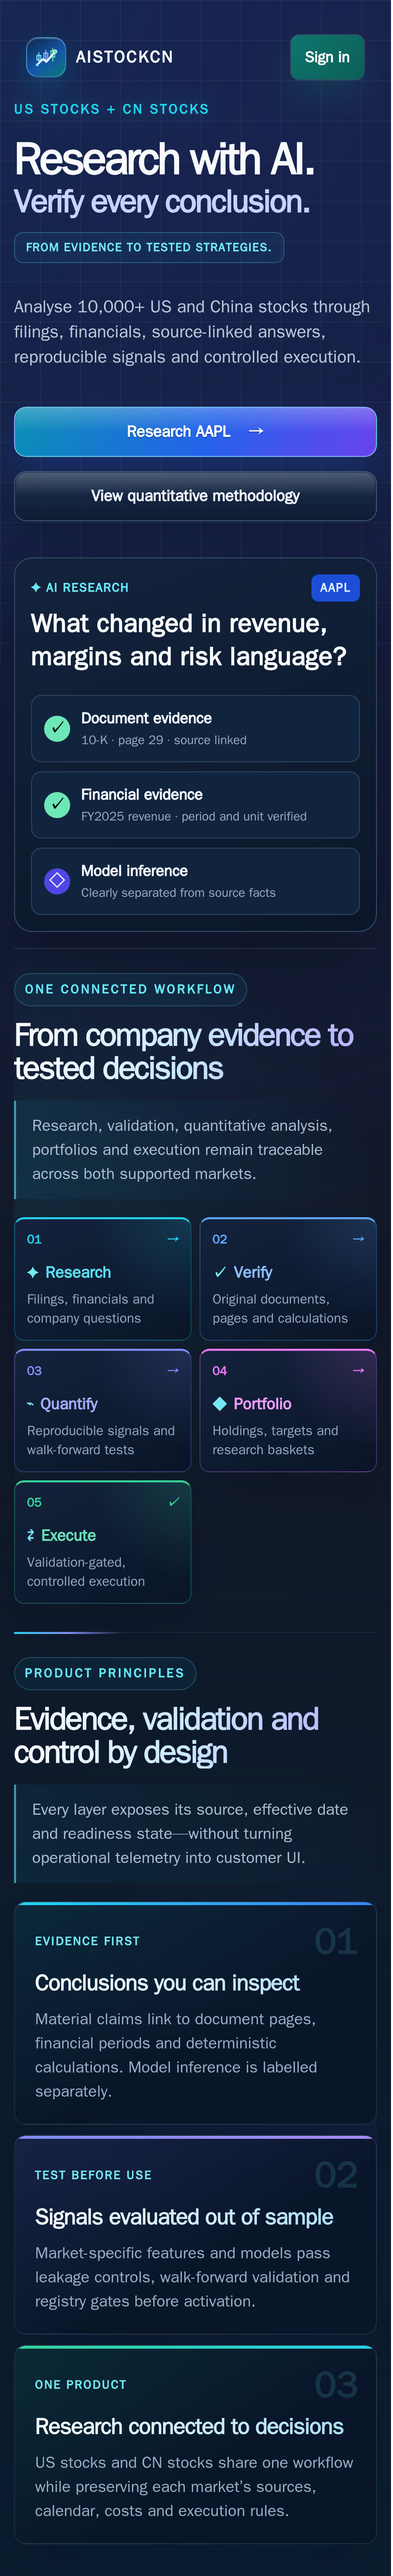
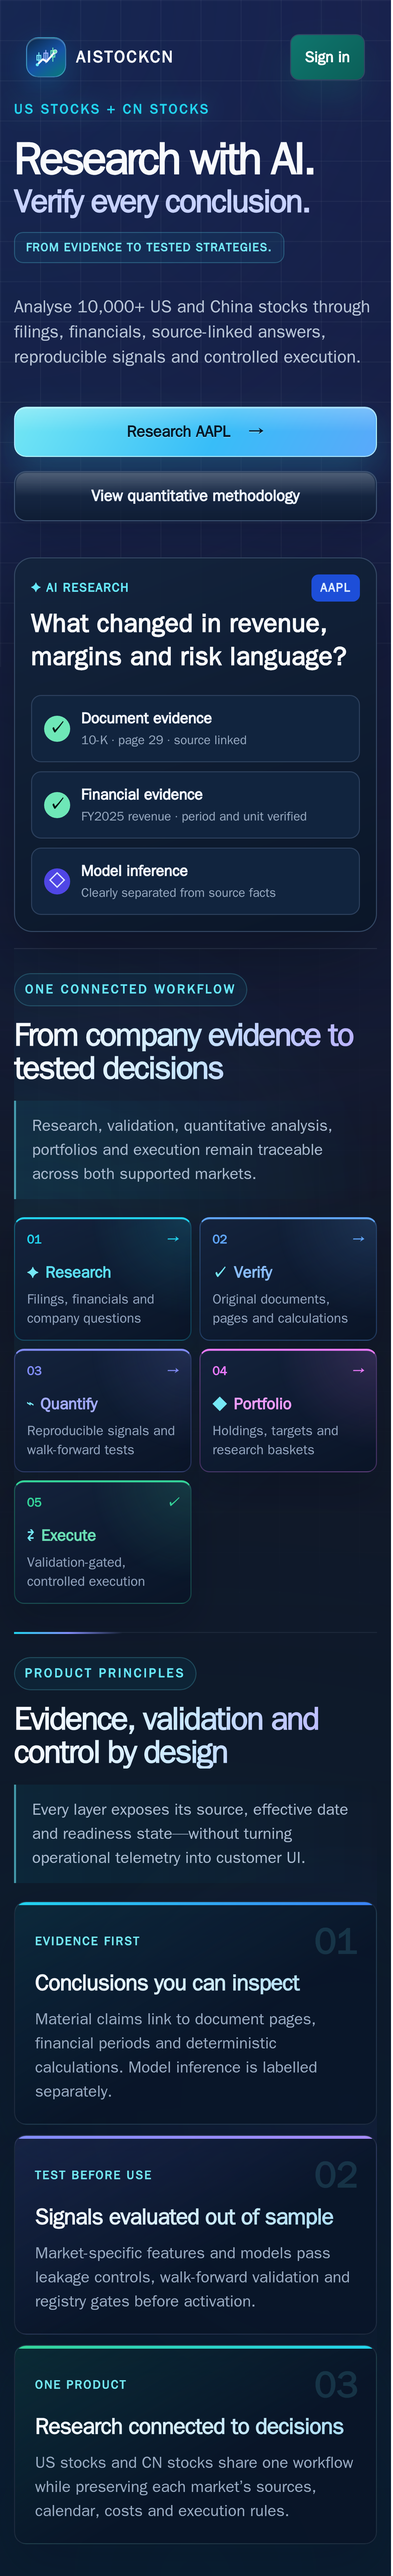
style: align hero CTA with brand blue

Changed region(s): [[0.0306, 0.1559, 0.9796, 0.1871]]

diff --git a/apps/web/app/globals.css b/apps/web/app/globals.css
@@ -4810,10 +4810,10 @@ select {
 .unified-hero-grid .hero-panel-copy-lead { max-width: 690px; color: #b9c6d8; font-size: clamp(1.04rem, 1.35vw, 1.18rem); line-height: 1.55; }
 .landing-actions { display: flex; flex-wrap: wrap; align-items: center; gap: 14px; margin-top: 28px; }
 .landing-primary-cta, .landing-secondary-cta { position: relative; isolation: isolate; display: inline-flex; min-height: 50px; align-items: center; justify-content: center; gap: 18px; overflow: hidden; padding: 0 20px; border-radius: 12px; text-decoration: none; font-size: .98rem; font-weight: 820; transition: transform 180ms ease, border-color 180ms ease, box-shadow 180ms ease, background 180ms ease; }
-.landing-primary-cta { border: 1px solid rgb(165 243 252 / 58%); color: #fff; background: linear-gradient(118deg, #0891b2 0%, #2563eb 54%, #7c3aed 112%); text-shadow: 0 1px 1px rgb(5 15 38 / 32%); box-shadow: 0 16px 34px rgb(37 99 235 / 28%), 0 8px 18px rgb(3 12 30 / 30%), inset 0 1px 0 rgb(255 255 255 / 28%); }
+.landing-primary-cta { border: 1px solid rgb(207 250 254 / 72%); color: #061827; background: linear-gradient(118deg, #73e7f4 0%, #38bdf8 56%, #60a5fa 108%); text-shadow: 0 1px 0 rgb(255 255 255 / 26%); box-shadow: 0 16px 34px rgb(56 189 248 / 27%), 0 8px 18px rgb(3 12 30 / 30%), inset 0 1px 0 rgb(255 255 255 / 42%); }
 .landing-primary-cta::before, .landing-secondary-cta::before { content: ""; position: absolute; z-index: -1; inset: 1px; border-radius: 10px; background: linear-gradient(180deg, rgb(255 255 255 / 22%), transparent 50%); pointer-events: none; }
 .landing-primary-cta::after { content: ""; position: absolute; top: -55%; left: -55%; width: 34%; height: 210%; transform: rotate(22deg); background: linear-gradient(90deg, transparent, rgb(255 255 255 / 58%), transparent); filter: blur(.3px); pointer-events: none; animation: landing-cta-shine 3.8s cubic-bezier(.4, 0, .2, 1) infinite; }
-.landing-primary-cta:hover { transform: translateY(-2px); border-color: rgb(207 250 254 / 90%); color: #fff; background: linear-gradient(118deg, #06b6d4 0%, #3977ee 54%, #8b5cf6 112%); box-shadow: 0 20px 42px rgb(37 99 235 / 36%), 0 10px 22px rgb(3 12 30 / 34%), inset 0 1px 0 rgb(255 255 255 / 34%); }
+.landing-primary-cta:hover { transform: translateY(-2px); border-color: rgb(236 254 255 / 94%); color: #041521; background: linear-gradient(118deg, #8beef7 0%, #52cdfb 56%, #76b5fb 108%); box-shadow: 0 20px 42px rgb(56 189 248 / 36%), 0 10px 22px rgb(3 12 30 / 34%), inset 0 1px 0 rgb(255 255 255 / 52%); }
 .landing-primary-cta > span { transition: transform 180ms ease; }
 .landing-primary-cta:hover > span { transform: translateX(4px); }
 .landing-secondary-cta { border: 1px solid #3c5272; color: #eef5ff; background: linear-gradient(180deg, rgb(28 48 77 / 82%), rgb(13 28 49 / 82%)); box-shadow: 0 10px 26px rgb(2 10 26 / 20%), inset 0 1px 0 rgb(255 255 255 / 10%); backdrop-filter: blur(10px); }
